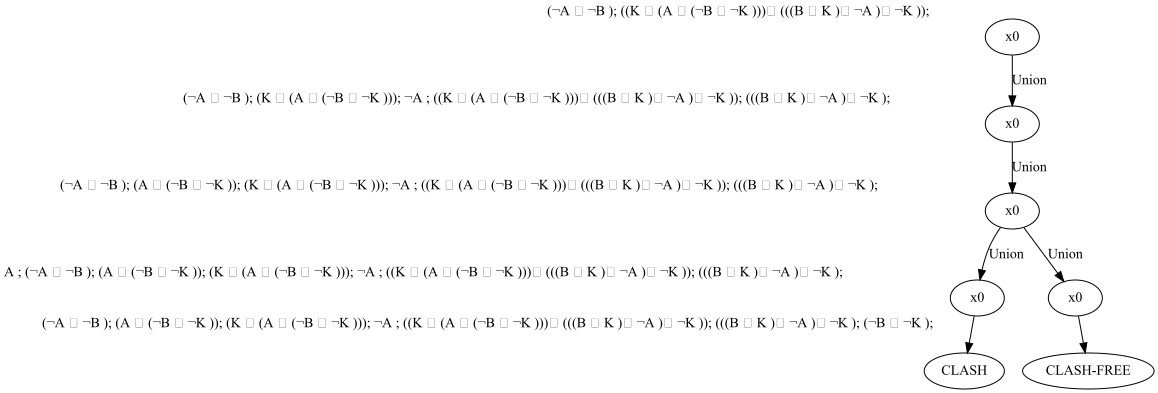
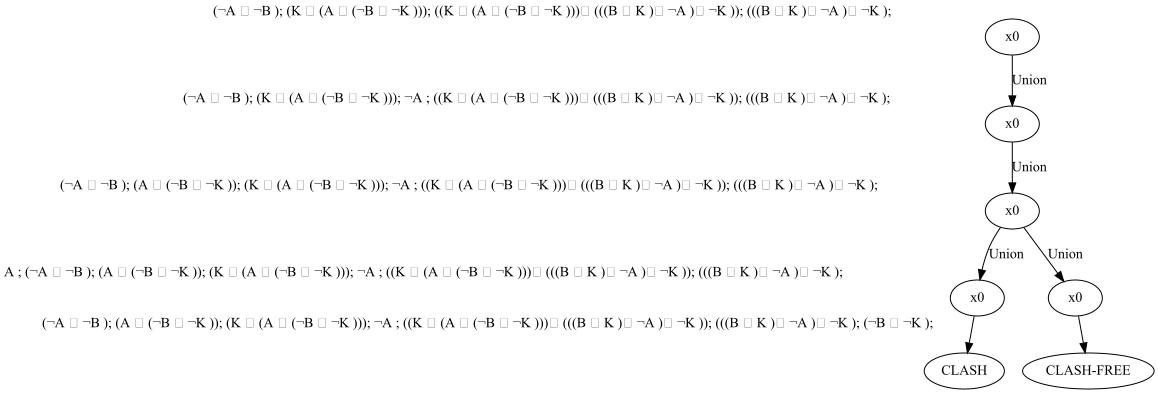
Aggiunta modifica del label da usare dopo l'intersezione

Changed region(s): [[0.1865, 0.0, 0.8083, 0.0611]]

diff --git a/Progetto/src/main/java/turcobardi/ALCReasoner.java b/Progetto/src/main/java/turcobardi/ALCReasoner.java
@@ -604,6 +604,7 @@ public class ALCReasoner{
 	
 	private boolean implementTableauxNonEmptyTbox(OWLNamedIndividual ind, Set<OWLObject> Lx, Set<OWLObject> aBox, Set<OWLObject> predLx, Node parent) {
 		boolean ret = true;
+		
 		//System.out.println(ind.getIRI().getShortForm());
 		//REGOLA INTERSEZIONE
 		Set<OWLObject> tmp = this.intersectionRule(aBox,ind.getIRI().getShortForm());
@@ -618,6 +619,11 @@ public class ALCReasoner{
     		Lx.add(((OWLClassAssertionAxiom) o).getClassExpression());
     		
     	}
+    	for (OWLObject o: Lx) {
+    		o.accept(gv);
+    		gv.addSemicolon();
+    	}
+    	parent = gr.editNodeLabel(parent, ind.getIRI().getShortForm(), gv.getFormula());
     	if(hasClash(Lx)) {
     		Node current = gr.createNode2(gr.getNextNodeID(), "", "CLASH");
     		gr.createLink2(current, parent, "");

diff --git a/Progetto/src/main/java/turcobardi/GraphRenderer.java b/Progetto/src/main/java/turcobardi/GraphRenderer.java
@@ -34,7 +34,10 @@ public class GraphRenderer {
 		lastParent+=1;
 		return id;
 	}
-	
+	public Node editNodeLabel(Node currentNode, String internal, String external) {
+		Node editedNode = currentNode.with(Label.html(external).external(), Label.html(internal));
+		return editedNode;
+	}
 	public Node createNode2(int id, String externalLabel, String internalLabel) {
 		if(externalLabel==null) 
 			externalLabel="";
